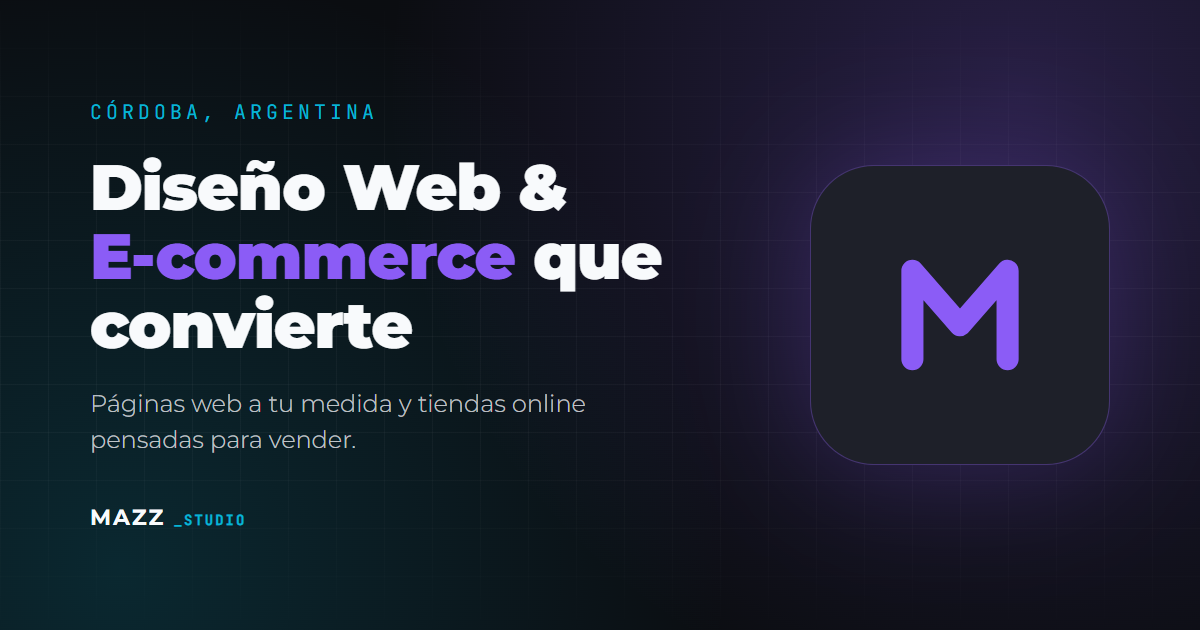
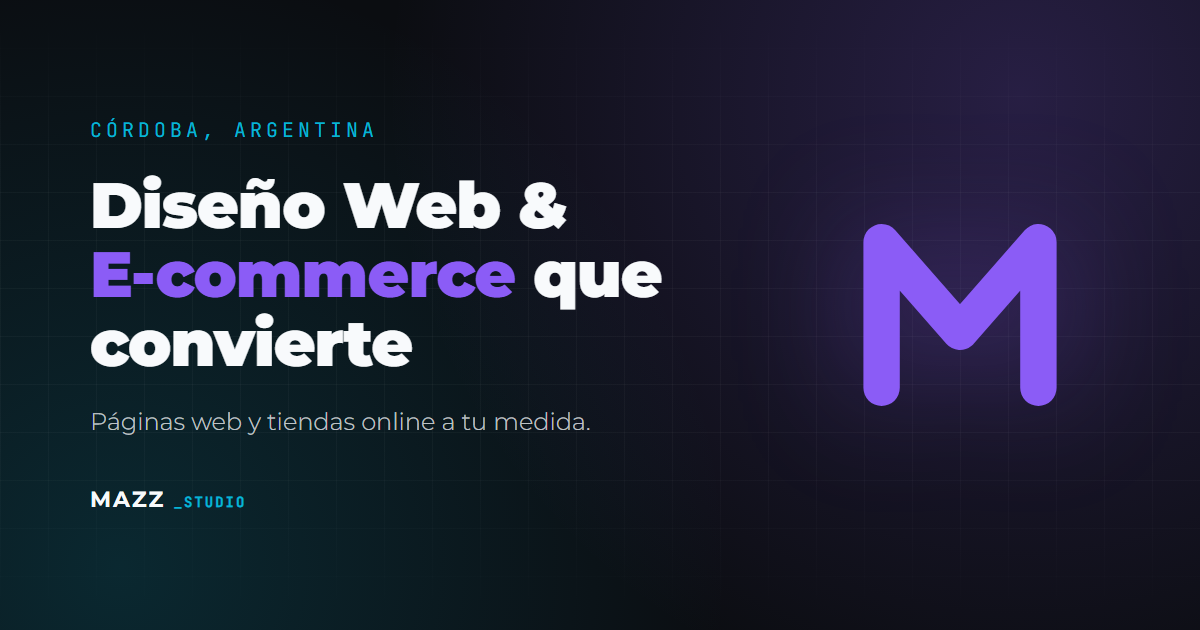
Update tagline and simplify OG image mark to violet M only

diff --git a/index.html b/index.html
@@ -6,9 +6,9 @@
     <title>Mazz STUDIO | Diseño Web & E-commerce Specialist</title>
     <link rel="icon" type="image/svg+xml" href="favicon.svg">
     <link rel="apple-touch-icon" href="favicon.svg">
-    <meta name="description" content="Páginas web a tu medida y tiendas online que venden. Desarrollo web profesional en Córdoba, Argentina.">
+    <meta name="description" content="Páginas web y tiendas online a tu medida. Desarrollo web profesional en Córdoba, Argentina.">
     <meta property="og:title" content="Mazz STUDIO | Web Design & E-commerce">
-    <meta property="og:description" content="Páginas web a tu medida. Tiendas online que venden.">
+    <meta property="og:description" content="Páginas web y tiendas online a tu medida.">
     <meta property="og:type" content="website">
     <meta property="og:url" content="https://emildesigns.github.io/Mazz_Studio/">
     <meta property="og:image" content="https://emildesigns.github.io/Mazz_Studio/og-image.png">
@@ -16,7 +16,7 @@
     <meta property="og:image:height" content="630">
     <meta name="twitter:card" content="summary_large_image">
     <meta name="twitter:title" content="Mazz STUDIO | Web Design & E-commerce">
-    <meta name="twitter:description" content="Páginas web a tu medida. Tiendas online que venden.">
+    <meta name="twitter:description" content="Páginas web y tiendas online a tu medida.">
     <meta name="twitter:image" content="https://emildesigns.github.io/Mazz_Studio/og-image.png">
     <link rel="preload" as="video" href="0320.webm" fetchpriority="high">
     <link href="https://fonts.googleapis.com/css2?family=Montserrat:ital,wght@0,300;0,700;1,400&family=JetBrains+Mono&display=swap" rel="stylesheet">

diff --git a/og-image.html b/og-image.html
@@ -102,17 +102,13 @@
     z-index: 2;
     width: 300px;
     height: 300px;
-    border-radius: 64px;
-    background: var(--slate);
-    border: 1px solid rgba(139, 92, 246, 0.35);
     display: flex;
     align-items: center;
     justify-content: center;
-    box-shadow: 0 0 120px rgba(139, 92, 246, 0.25);
     flex-shrink: 0;
   }
 
-  .mmark svg { width: 170px; height: 170px; }
+  .mmark svg { width: 280px; height: 280px; filter: drop-shadow(0 0 60px rgba(139, 92, 246, 0.35)); }
 </style>
 </head>
 <body>
@@ -121,7 +117,7 @@
     <div class="content">
       <div class="eyebrow">Córdoba, Argentina</div>
       <div class="title">Diseño Web &amp;<br><span class="accent">E-commerce</span> que convierte</div>
-      <div class="subtitle">Páginas web a tu medida y tiendas online pensadas para vender.</div>
+      <div class="subtitle">Páginas web y tiendas online a tu medida.</div>
       <div class="brandbar">
         <span class="logo-text">MAZZ <span>_STUDIO</span></span>
       </div>
